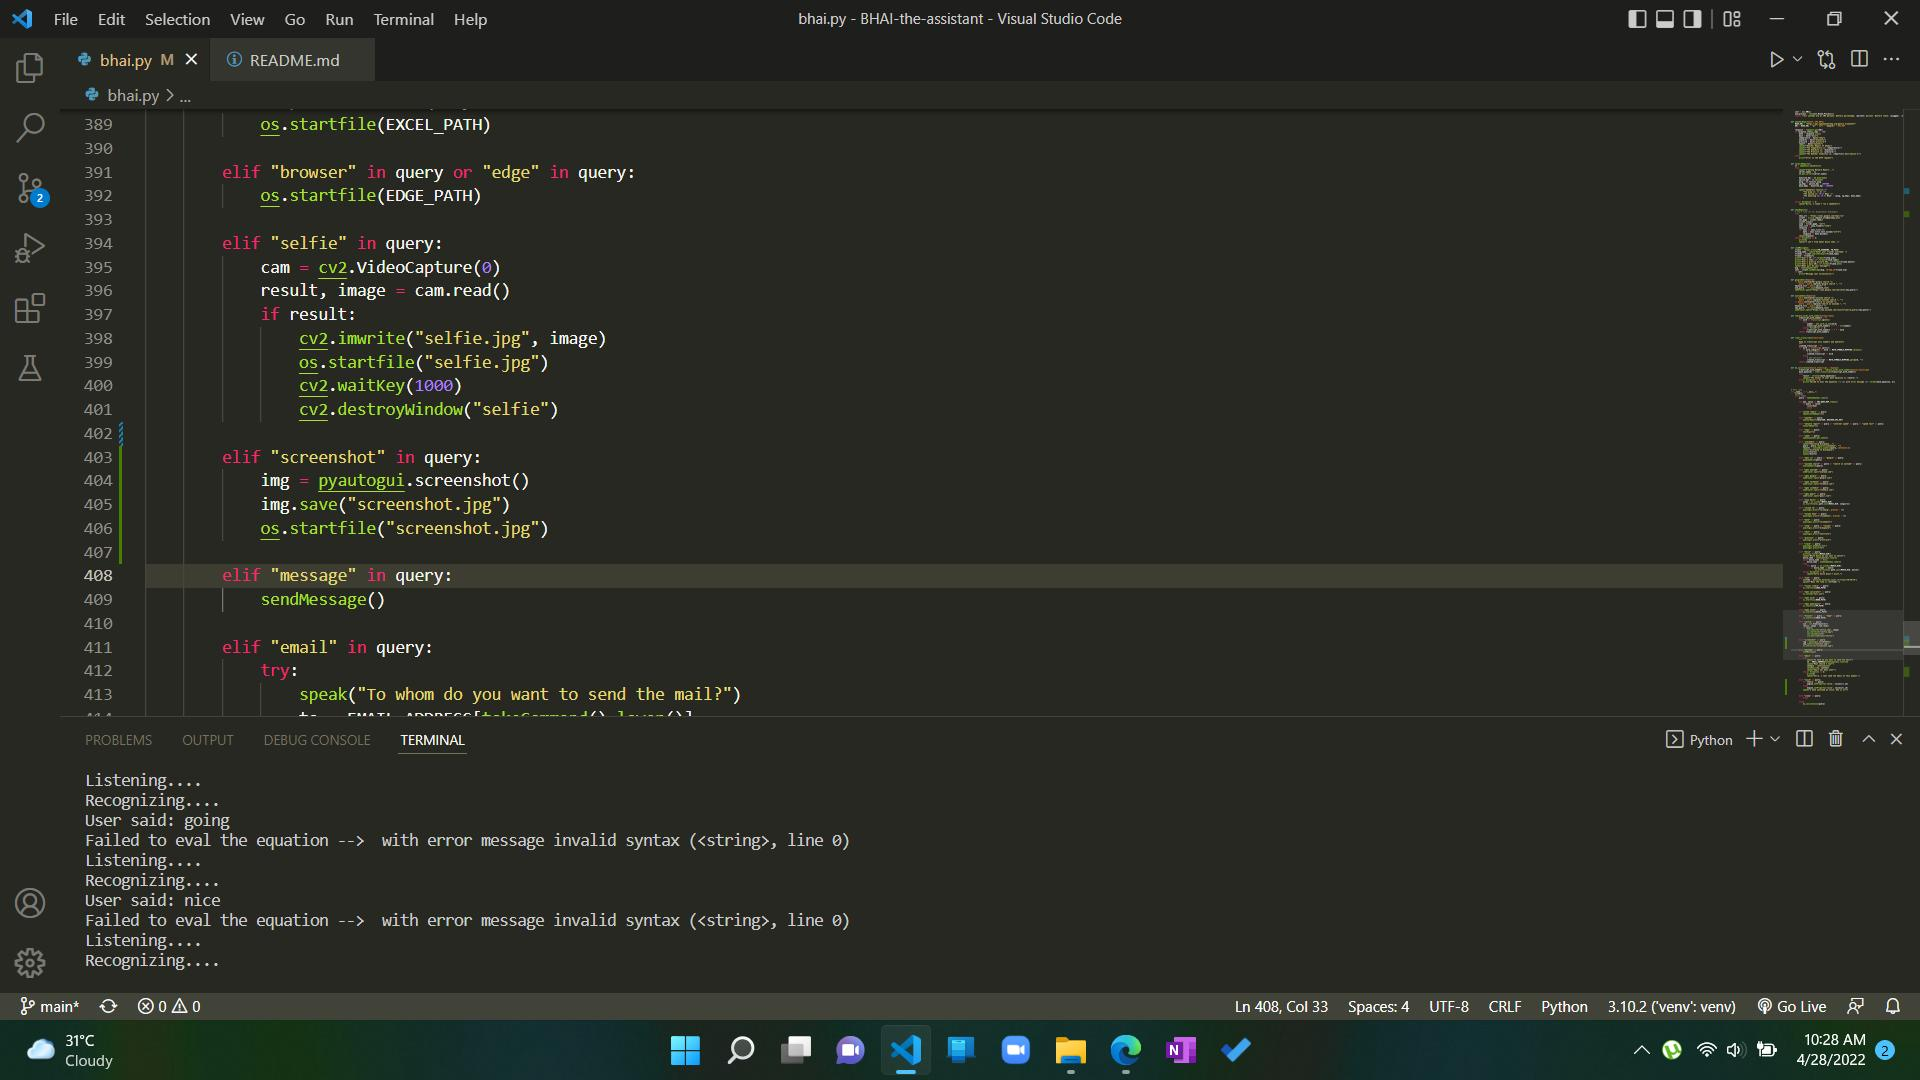
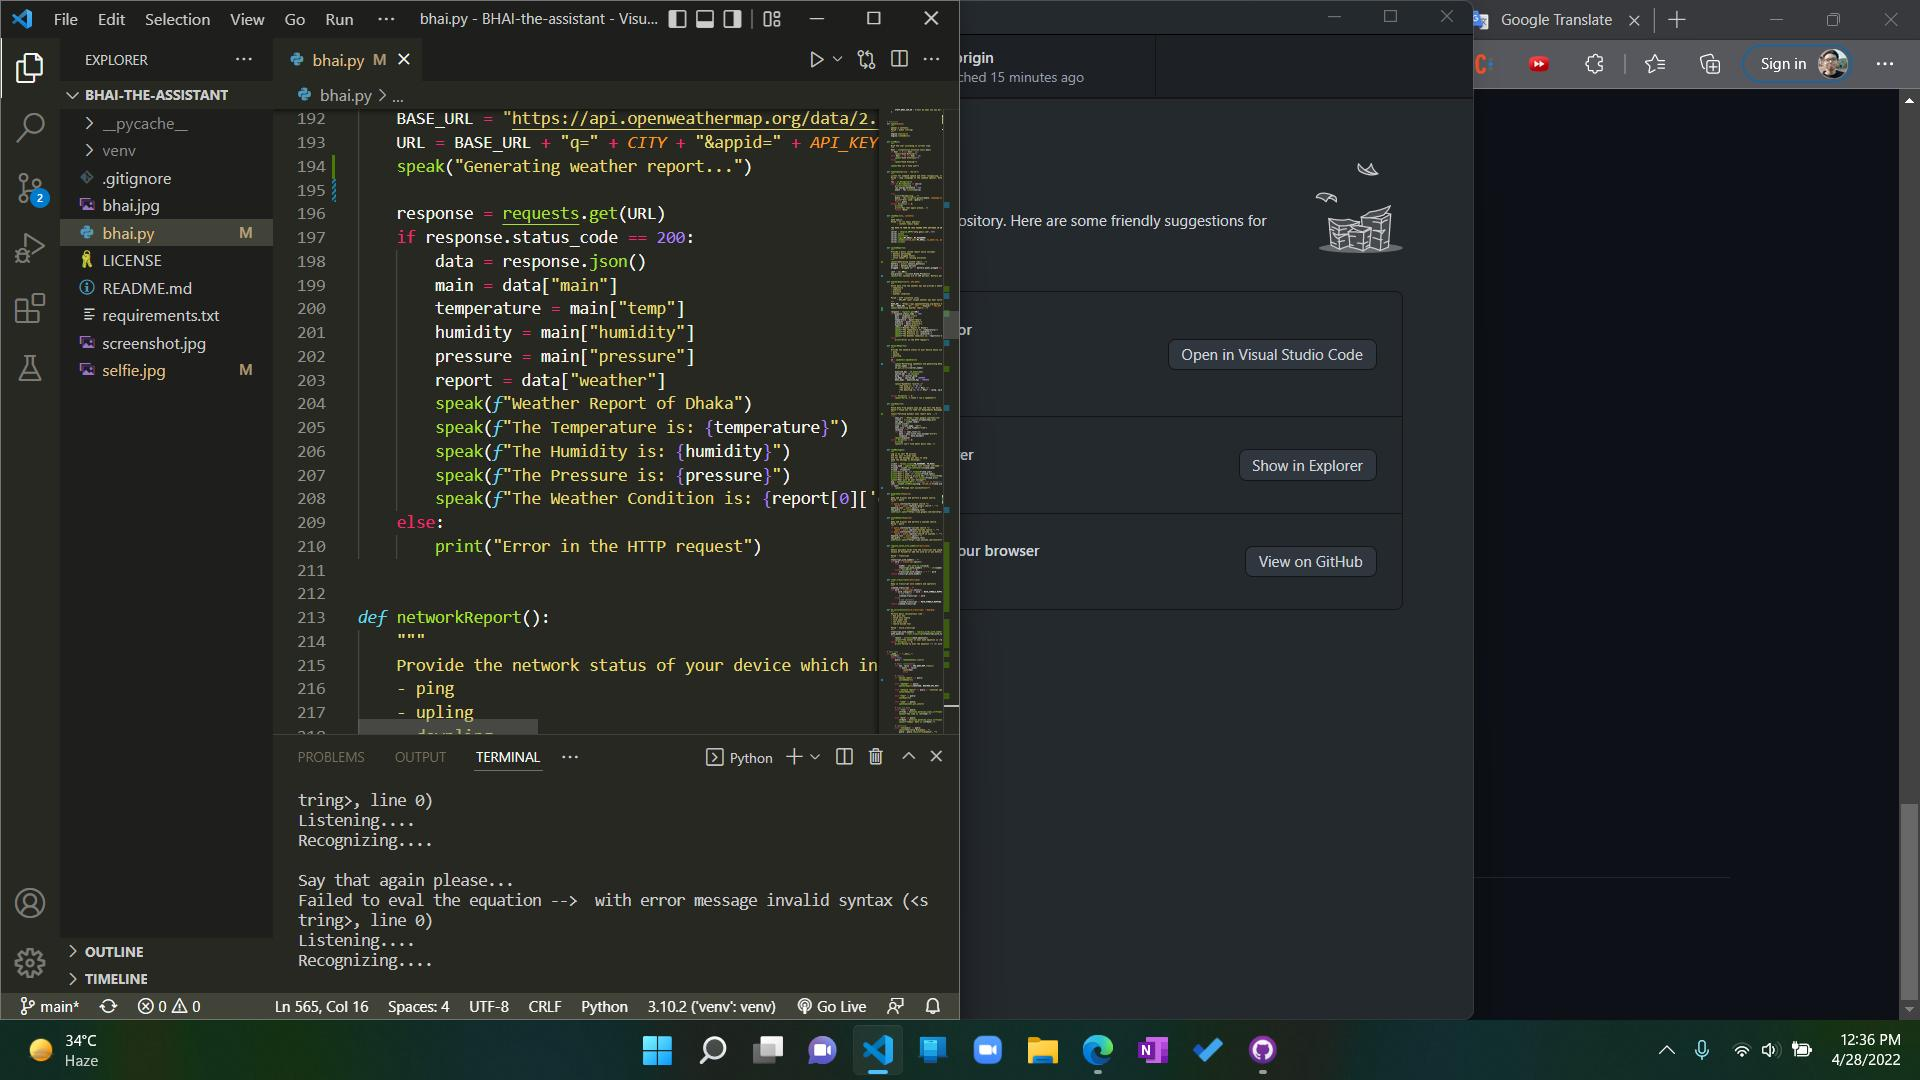
Update 2
Minor changes
Completed the initial development

diff --git a/bhai.py b/bhai.py
@@ -89,7 +89,7 @@ ANS_QUES_MAP = {
         "It is nice to hear bhai.": ["fine", "I am also fine", "I am well", "fine thank you", "i am doing well", "pretty good"],
         "I am your bhai": ["who are you", "what is your identity", "what is your name"],
         "Ahammad Shawki has created me": ["who made you", "who created you", "who is your creator"],
-        "Welcome": ["thanks", "thank you"],
+        "You are welcome": ["thanks", "thank you"],
         "Thank you": ["nice", "great", "good", "wonderful"],
         "Should I tell you a joke or play any music for you?": ["my mood is off", "i am not feeling great"],
         STUFF_BHAI_CAN_DO : ["tell me what can you do", "what can you do", "which tasks you can perform"],
@@ -168,13 +168,14 @@ def systemReport():
     - battery plugged status
     - total number of running processes
     """
+    speak("Generating system report...")
     battery = psutil.sensors_battery()
     percent = battery.percent
     plugged = "plugged in" if battery.power_plugged else "not plugged in"
     
     inst = wmi.WMI()
     num_process = len(inst.Win32_Process())
-    return f"All systems are at 100 percent. Battery percentage: {percent} percent. Battery state: {plugged}. {num_process} processes are currently running."
+    speak(f"All systems are at 100 percent. Battery percentage: {percent} percent. Battery state: {plugged}. {num_process} processes are currently running.")
     
 
 def weatherReport(CITY, API_KEY):
@@ -190,7 +191,8 @@ def weatherReport(CITY, API_KEY):
     """
     BASE_URL = "https://api.openweathermap.org/data/2.5/weather?"
     URL = BASE_URL + "q=" + CITY + "&appid=" + API_KEY
-    
+    speak("Generating weather report...")
+
     response = requests.get(URL)
     if response.status_code == 200:
         data = response.json()
@@ -217,7 +219,7 @@ def networkReport():
     """
     st = speedtest.Speedtest()
     try:
-        speak("Creating Network Report...")
+        speak("Performing speedtest and generating Network Report...")
         server_names = []
         st.get_servers(server_names)
 
@@ -242,6 +244,7 @@ def newsReport():
     Fetch data from google news api and Tell the daily top 5 news.
     Haven't found any rss feed for Bangladeshi Newspapers :(
     """
+    speak("Fetching dynamic news report data ...")
     try:
         news_url = "https://news.google.com/news/rss"
         client = urllib.request.urlopen(news_url)
@@ -266,7 +269,9 @@ def sendMessage():
     Ask for the message you want to send.
     Send the message in messenger.
     """
+    speak("Logging in to Facebook...")
     client = fbchat.Client(FB_USERNAME, FB_PASS)
+    speak("Enter your friends username..")
     friend_name = input("Enter your friends username: ")
     friends = client.searchForUsers(friend_name)
     friend = friends[0]
@@ -278,7 +283,7 @@ def sendMessage():
     msg = takeCommand("bn") # Language set to Bengali("bn"). For change it back, just remove the attribute.
     sent = client.sendMessage(msg, thread_id=friend.uid)
     if sent:
-        print("Message sent successfully!")
+        speak("Message sent successfully!")
 
 
 def googleSearch(query):
@@ -374,7 +379,7 @@ if __name__ == "__main__":
         
         # reports
         if 'system report' in query:
-            speak(systemReport())
+            systemReport()
 
         elif "weather" in query:
             weatherReport(LOCATION, WEATHER_API_KEY)
@@ -407,53 +412,73 @@ if __name__ == "__main__":
             speak(results)
         
         elif "what is" in query or "google" in query:
+            speak("Searching on Google..")
             googleSearch(query)
 
         elif "youtube search" in query or "search on youtube" in query:
+            speak("Searching on Youtube..")
             youtubeSearch(query)
 
         # opening in web browser
         elif "open youtube" in query:
+            speak("Opening Youtube..")
             webbrowser.open("youtube.com")
 
         elif "open google" in query:
+            speak("Opening Google..")
             webbrowser.open("google.com")
 
         elif "open facebook" in query:
+            speak("Opening Facebook..")
             webbrowser.open("facebook.com")
+
+        elif "open messenger" in query:
+            speak("Opening Messenger..")
+            webbrowser.open("messenger.com")
         
         elif "open linkedin" in query:
+            speak("Opening LinkedIn..")
             webbrowser.open("linkedin.com")
 
         elif "open gmail" in query:
+            speak("Opening Gmail..")
             webbrowser.open("gmail.com")
 
         # music options
         elif "play music" in query:
+            speak("Playing Music..")
             songs = os.listdir(MUSIC_DIR)
             os.startfile(os.path.join(MUSIC_DIR, songs[0]))
 
         elif "volume up" in query:
             pyautogui.press("volumeup", presses = 10)
+            speak("Volume increased 20%")
 
         elif "volume down" in query:
             pyautogui.press("volumedown", presses = 10)
+            speak("Volume decreased 20%")
 
         elif "mute" in query:
             pyautogui.press("volumemute")
+            speak("Volume unmuted")
 
         elif "stop" in query or "resume" in query:
             pyautogui.press("playpause")
+            speak("Done")
 
         elif "next" in query:
+            speak("Forwarding to the next track..")
             pyautogui.press("nexttrack")
 
         elif "previous" in query:
+            speak("Backwording to the previous track..")
             pyautogui.press("prevtrack")
 
         elif "close" in query:
             pyautogui.keyDown('alt')
             pyautogui.press("f4")
+            speak("Window closed")
+            pyautogui.keyUp('alt')
 
         elif "movie" in query:
             print(os.listdir(MOVIE_DIR))
@@ -465,23 +490,29 @@ if __name__ == "__main__":
                 for movie in os.listdir(MOVIE_DIR):
                     if movie_name in movie:
                         os.startfile(os.path.join(MOVIE_DIR, movie))
+                        speak("Movie has started. Grab your popcorn.")
             except Exception as e:
                 speak("Sorry movie doesn't exist.")
 
         # opening native applications
         elif "visual studio" in query:
+            speak("Opening visual studio code..")
             os.startfile(CODE_PATH)
 
         elif "open calculator" in query:
+            speak("Opening calculator..")
             os.system("calc.exe")
 
         elif "open word" in query:
+            speak("Opening Microsoft word..")
             os.startfile(WORD_PATH)
 
         elif "open powerpoint" in query:
+            speak("Opening microsoft powerpoint..")
             os.startfile(PP_PATH)
 
         elif "open excel" in query:
+            speak("Opening microsoft excel..")
             os.startfile(EXCEL_PATH)
 
         elif "browser" in query or "edge" in query:
@@ -489,6 +520,7 @@ if __name__ == "__main__":
 
         # capturing
         elif "selfie" in query:
+            speak("Say cheese..")
             time.sleep(1)
             cam = cv2.VideoCapture(0)
             result, image = cam.read()
@@ -499,6 +531,7 @@ if __name__ == "__main__":
         elif "screenshot" in query:
             img = pyautogui.screenshot()
             img.save("screenshot.jpg")
+            speak("Screenshot captured..")
             os.startfile("screenshot.jpg")
         
         # message and email
@@ -527,6 +560,7 @@ if __name__ == "__main__":
 
         # ending the loop and putting bhai to sleep
         elif "sleep" in query:
+            speak("Maybe it is goodbye for us..")
             break
 
         else:
